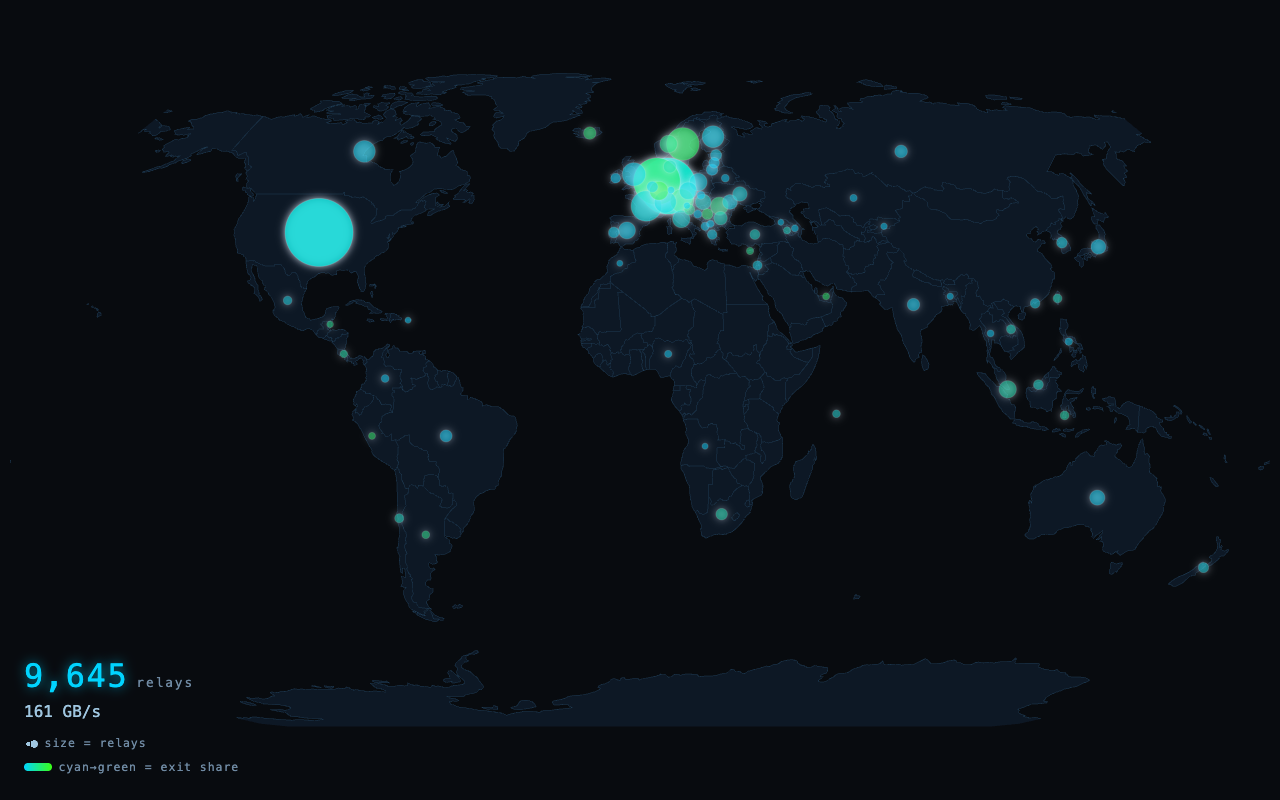
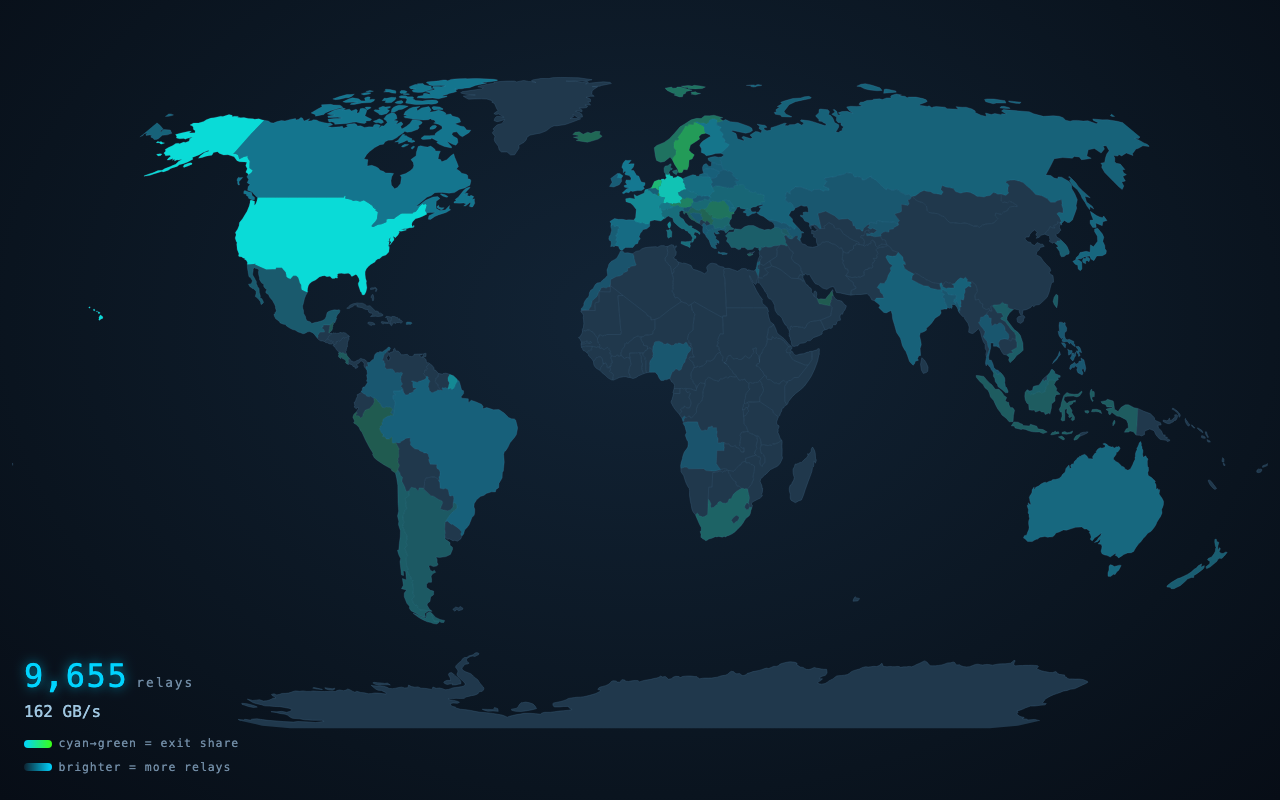
docs: align with the value-by-alpha map
New VBA screenshot; README "what it does" + tech stack; architecture
overview; ADR-008 (value-by-alpha encoding) refining ADR-007; data-sources
country-join note (i18n-iso-countries); development project structure.

diff --git a/docs/decisions/008-value-by-alpha.md b/docs/decisions/008-value-by-alpha.md
@@ -1,0 +1,66 @@
+# ADR-008: Use a value-by-alpha encoding for the country map
+
+**Status**: Accepted (refines the encoding in [ADR-007](007-2d-map-over-globe.md))
+
+## Context
+
+With the 2D map decided (ADR-007), the question was how to encode per-country
+data (relay count, exit share, bandwidth) on it. We prototyped and compared a
+wide set of established cartographic techniques, all selectable at the time via
+a `?viz=` switch:
+
+- **Proportional-symbol bubbles** (radius = count): circles overlapped into an
+  unreadable blob over Europe — the classic "symbol congestion" problem.
+- **Choropleth** (fill territory by count): area distortion — large empty
+  countries (Russia, Canada) dominate while relay-dense small countries
+  (Germany, Netherlands) vanish. Cartographic convention also reserves
+  choropleth for ratios, not raw counts.
+- **Dorling / Demers cartograms** (force-packed circles): removed overlap but
+  scrambled geography — bubbles drifted far from their true location, so a
+  country could only be identified by hovering.
+- **Spike map** (height = count): readable "skyline" but spikes occlude one
+  another front-to-back.
+- **Hex tile cartogram**: every country readable, but geography becomes
+  schematic and the size channel is lost.
+- **Leader-line bubbles, dot-density, Europe inset, radial bursts**: each
+  solved part of the problem but added clutter or lost a channel.
+
+Research into how data journalists handle "per-country values over a dense
+Europe" (Axis Maps, Datawrapper, FlowingData, the Tor Metrics site itself)
+pointed to value-by-alpha as an unusually good fit for a dark, phosphor-style
+aesthetic — its recommended base is a dark background.
+
+## Decision
+
+Use a **value-by-alpha (VBA)** encoding:
+
+- Every country is drawn as a visible slate land base with borders, so the
+  whole world always reads as a map.
+- Countries with relays glow on top: **hue = exit share** (cyan → green),
+  **opacity = relay count** (sqrt-scaled). Low-relay countries fade toward the
+  base; the busiest countries glow brightest.
+- Interaction (hover tooltip, click → detail panel, pan/zoom) is unchanged.
+
+## Consequences
+
+**Benefits:**
+
+- No overlap and no scrambled geography — every country stays exactly where it
+  belongs, identifiable without hovering.
+- Suppresses the area-distortion noise of a raw-count choropleth: large,
+  low-relay countries recede instead of shouting.
+- The dark base + glow matches obfina's aesthetic; VBA's canonical base color is
+  dark, so the technique and the look reinforce each other.
+- Pure CSS/SVG, no force simulation or extra layout data.
+
+**Tradeoffs:**
+
+- VBA can _suppress_ unimportant countries but cannot _enlarge_ small important
+  ones — a relay-dense small country (e.g. Luxembourg) is bright but still
+  physically small, so dense Europe is helped but not fully solved. Zoom remains
+  the tool for inspecting it.
+- Opacity is a weaker quantitative channel than length or position, so exact
+  count comparisons between countries need the detail panel.
+- Bandwidth is no longer encoded on the map itself (it lives in the detail
+  panel); the map now carries two variables (count, exit share) rather than
+  three.

diff --git a/README.md b/README.md
@@ -2,7 +2,7 @@
 
 A real-time, interactive visualization of the Tor network.
 
-![The obfina map: one marker per country, sized by relay count and colored by exit share](docs/assets/map.png)
+![The obfina map: a value-by-alpha world map where each country glows by relay count and is colored by exit share](docs/assets/map.png)
 
 ## Why it exists
 
@@ -12,7 +12,7 @@ obfina makes the Tor network observable. Not through tables and CSV exports, but
 
 ## What it does
 
-- **Country markers** — one marker per country: radius encodes relay count, color encodes exit share (cyan → green), opacity encodes total bandwidth
+- **Value-by-alpha map** — every country is filled by its role in the network: hue encodes exit share (cyan → green) and brightness encodes relay count, so the busiest countries glow while the rest recede. The whole world stays visible as a map.
 - **Drill-down** — click any country for its relay count, aggregate bandwidth, and Guard/Exit/Middle composition
 - **Pan & zoom** — explore dense regions like Europe by zooming in
 - **Ambient mode** — leave it on a screen and it conveys the network's shape without any interaction
@@ -28,16 +28,17 @@ Data is refreshed every 5–30 minutes via a server-side cache layer (relay data
 
 ## Tech stack
 
-| Layer     | Technology                         |
-| --------- | ---------------------------------- |
-| Framework | SvelteKit                          |
-| Map       | D3 (d3-geo, d3-zoom) + world-atlas |
-| Animation | Svelte built-ins                   |
-| Styling   | Tailwind CSS                       |
-| Hosting   | Cloudflare Pages + Workers         |
-| Cache     | Cloudflare KV                      |
-| IaC       | Terraform                          |
-| CI/CD     | GitHub Actions                     |
+| Layer        | Technology                             |
+| ------------ | -------------------------------------- |
+| Framework    | SvelteKit                              |
+| Map          | D3 (d3-geo, d3-zoom) + world-atlas     |
+| Country join | i18n-iso-countries (numeric → alpha-2) |
+| Animation    | Svelte built-ins                       |
+| Styling      | Tailwind CSS                           |
+| Hosting      | Cloudflare Pages + Workers             |
+| Cache        | Cloudflare KV                          |
+| IaC          | Terraform                              |
+| CI/CD        | GitHub Actions                         |
 
 ## Documentation
 

diff --git a/docs/architecture.md b/docs/architecture.md
@@ -2,9 +2,9 @@
 
 ## Overview
 
-obfina is a single-page web application that visualizes the Tor network in real time. The centerpiece is a 2D world map (D3 + SVG) with one marker per country — radius encodes relay count, color encodes exit share, opacity encodes bandwidth. A server-side cache layer mediates between upstream Tor APIs and the client, keeping data fresh without hammering external services.
+obfina is a single-page web application that visualizes the Tor network in real time. The centerpiece is a 2D **value-by-alpha** world map (D3 + SVG): every country is drawn as a visible land base, and countries with relays glow on top — hue encodes exit share (cyan → green) and opacity encodes relay count. A server-side cache layer mediates between upstream Tor APIs and the client, keeping data fresh without hammering external services.
 
-> The visualization began as a 3D WebGL globe (Threlte + Three.js) but moved to a flat D3 map for far better readability and operability. See [ADR-007](decisions/007-2d-map-over-globe.md).
+> The visualization began as a 3D WebGL globe (Threlte + Three.js), then a proportional-symbol bubble map, before settling on a value-by-alpha map after comparing many alternatives. See [ADR-007](decisions/007-2d-map-over-globe.md).
 
 ## System diagram
 
@@ -38,6 +38,7 @@ Major technology choices are recorded individually as Architecture Decision Reco
 | [ADR-005](decisions/005-cloudflare-kv-cache.md) | Use Cloudflare KV for API response caching           |
 | [ADR-006](decisions/006-terraform.md)           | Use Terraform for infrastructure management          |
 | [ADR-007](decisions/007-2d-map-over-globe.md)   | Use a 2D D3 map instead of a 3D globe                |
+| [ADR-008](decisions/008-value-by-alpha.md)      | Use a value-by-alpha encoding for the country map    |
 
 ## Caching strategy
 

diff --git a/docs/data-sources.md b/docs/data-sources.md
@@ -57,7 +57,7 @@ Key fields:
 
 **Data quality notes:**
 
-- **Onionoo does not expose per-relay latitude/longitude.** Coordinates were removed from the API for privacy reasons; geolocation is provided only at the country level (`country`, `country_name`) plus optional `as`/`as_name`. obfina therefore aggregates relays by `country` and draws one marker per country, placed at a country centroid (`src/lib/country-centroids.ts`). This is verified against the live API: a request for `fields=...latitude,longitude...` returns those fields empty.
+- **Onionoo does not expose per-relay latitude/longitude.** Coordinates were removed from the API for privacy reasons; geolocation is provided only at the country level (`country`, `country_name`) plus optional `as`/`as_name`. obfina therefore aggregates relays by `country` and fills each country's territory on the map (value-by-alpha), joining Onionoo's ISO alpha-2 country codes to the `world-atlas` boundaries (which use ISO numeric IDs) via `i18n-iso-countries`. This is verified against the live API: a request for `fields=...latitude,longitude...` returns those fields empty.
 - `consensus_weight` is not bandwidth. It is the weight assigned by directory authorities for probabilistic relay selection. A relay with high consensus weight receives proportionally more circuits. It correlates with bandwidth but is not equal to it.
 - `observed_bandwidth` and `advertised_bandwidth` are both self-reported by the relay and unverified. obfina uses `observed_bandwidth` for node sizing. The actual measured bandwidth (used for `consensus_weight` calculation) is not exposed via Onionoo.
 

diff --git a/docs/development.md b/docs/development.md
@@ -42,7 +42,7 @@ The app is available at `http://localhost:5173`.
 **What to expect on first run:**
 
 1. The server routes fetch live data from Onionoo and Tor Metrics on the first request. This takes 2–5 seconds.
-2. The map appears once relays load; each country gets one marker sized by relay count.
+2. The map appears once relays load; each country glows by relay count and exit share.
 3. Subsequent requests within the cache TTL are served from Wrangler's in-memory KV emulator instantly.
 4. The first run may show fewer relays than production if Onionoo is mid-update cycle.
 
@@ -61,11 +61,10 @@ obfina/
 ├── src/
 │   ├── lib/
 │   │   ├── components/
-│   │   │   ├── map/          # D3 world map (WorldMap.svelte)
-│   │   │   └── panels/       # Country detail panel
+│   │   │   ├── map/          # value-by-alpha world map (ValueByAlphaMap.svelte)
+│   │   │   └── panels/       # country detail panel
 │   │   ├── stores/           # Svelte stores — selection state
-│   │   ├── country-centroids.ts  # ISO code → [lat, lon] for marker placement
-│   │   ├── map-encoding.ts   # size/color/opacity scales
+│   │   ├── map-encoding.ts   # exit-share → color
 │   │   └── relay-stats.ts    # per-country aggregation + formatting
 │   ├── routes/
 │   │   ├── +page.svelte      # Main entry point (map view + HUD)

diff --git a/docs/decisions/007-2d-map-over-globe.md b/docs/decisions/007-2d-map-over-globe.md
@@ -25,13 +25,15 @@ Replace the 3D globe with a flat 2D world map rendered with D3 and SVG:
 
 - **Projection and geography**: `d3-geo` Natural Earth projection with
   `world-atlas` land and country borders.
-- **One marker per country** (not per relay). Each marker encodes multiple
-  dimensions at once:
-  - radius → relay count (sqrt scale, so area reads as count)
-  - color → exit share (cyan = guard-heavy, green = exit-heavy)
-  - opacity → total bandwidth
+- **Per-country aggregation** (not per relay), since Onionoo only provides
+  country-level location.
 - **Interaction**: hover tooltip, click for a country detail panel, and
   `d3-zoom` pan/zoom to inspect dense regions.
+
+> The original per-country encoding here was a proportional-symbol bubble
+> (radius = count, color = exit share). That was later replaced after comparing
+> many alternatives — see [ADR-008](008-value-by-alpha.md) for the final
+> value-by-alpha encoding.
 
 Three.js, Threlte, and the globe components were removed.
 
